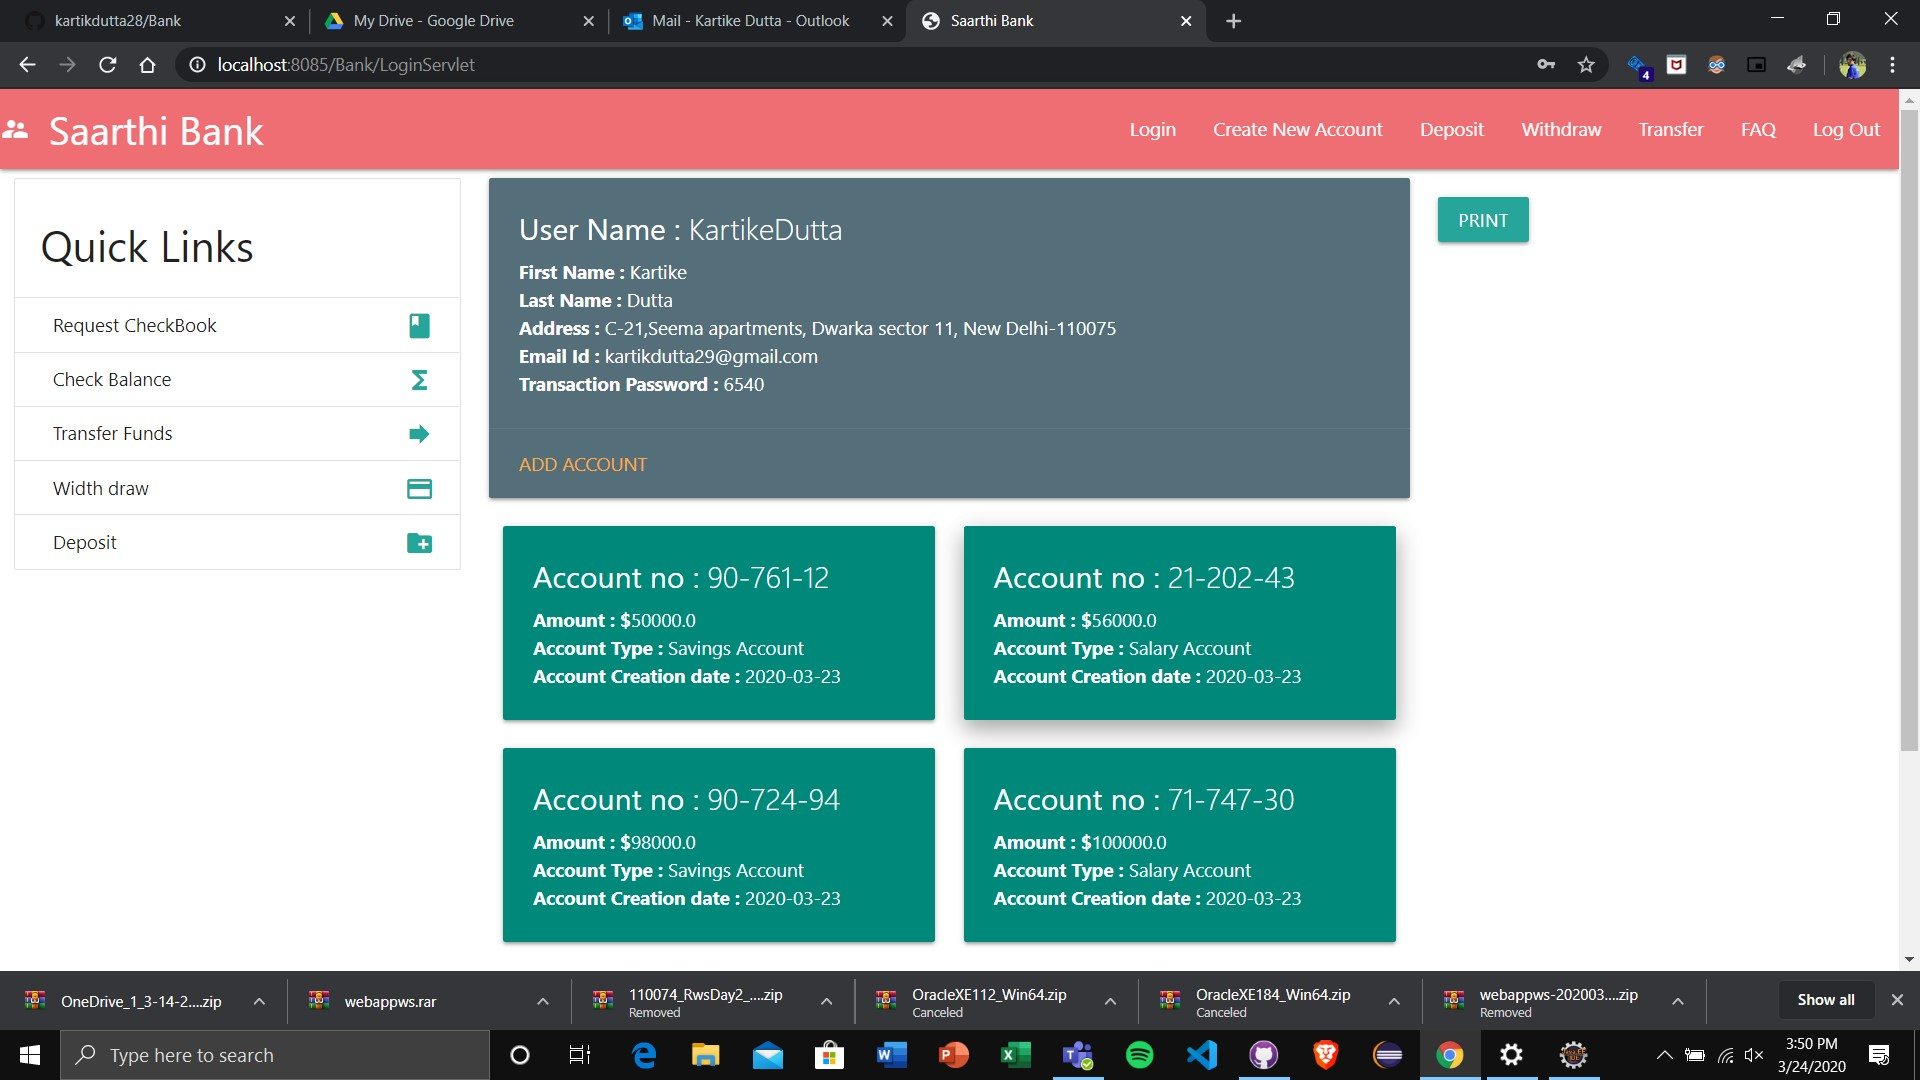
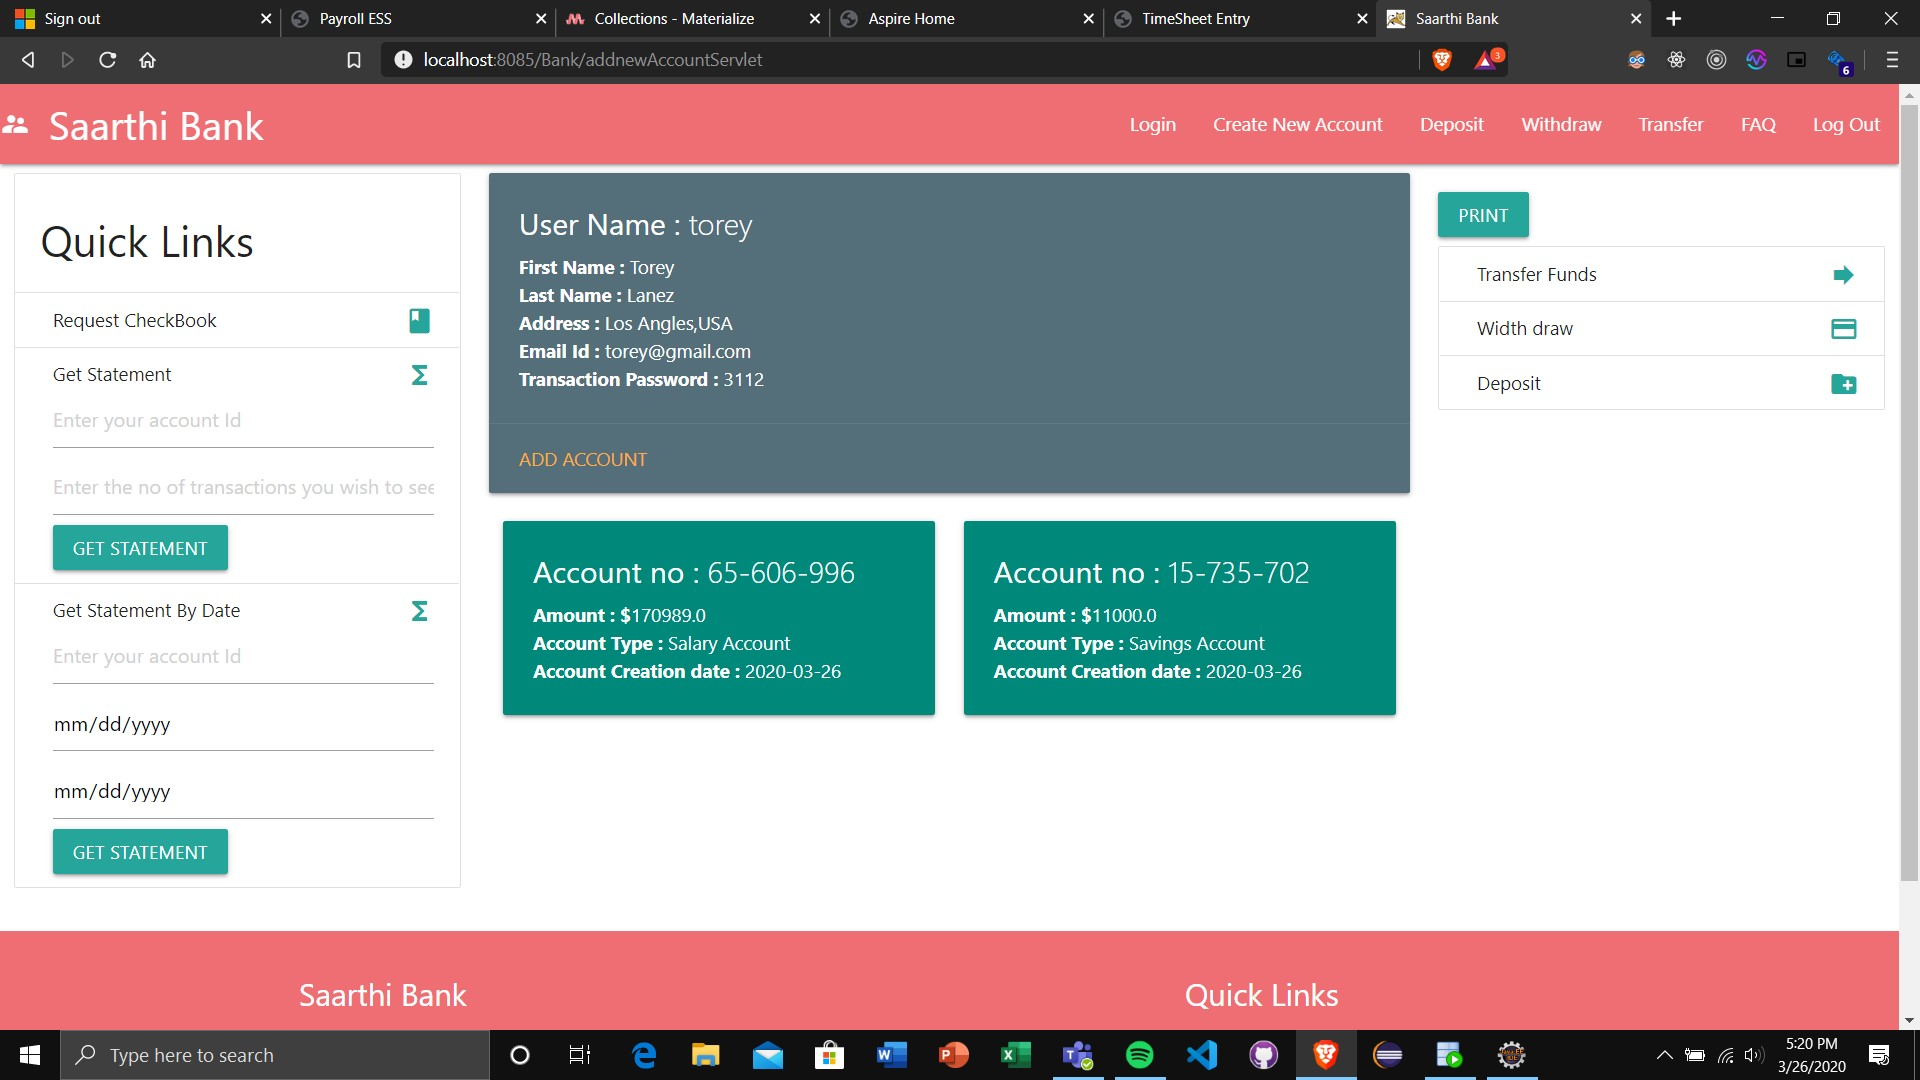
images
images

diff --git a/src/com/persistence/TransactionDao.java b/src/com/persistence/TransactionDao.java
@@ -3,7 +3,9 @@ package com.persistence;
 import java.sql.Connection;
 import java.sql.PreparedStatement;
 import java.sql.ResultSet;
+import java.text.SimpleDateFormat;
 import java.util.ArrayList;
+import java.util.Date;
 import java.util.List;
 
 import com.model.Transaction;
@@ -89,6 +91,38 @@ public class TransactionDao {
 			ps=connection.prepareStatement("select * from transaction_table where account_id=? order by tdate asc");
 			ps.setInt(1, account_id);
 			ps.setMaxRows(rows);
+			rs=ps.executeQuery();
+			while(rs.next()){
+				list.add(new Transaction(rs.getInt(1), rs.getInt(2),rs.getInt(3), rs.getDouble(4), 
+						rs.getDouble(5), rs.getString(6),rs.getString(7),rs.getDate(8)));
+			}
+		}catch (Exception e) {
+			e.printStackTrace();
+		}finally{
+			try{
+				connection.close();
+				ps.close();
+			}catch(Exception e){
+				e.printStackTrace();
+			}
+		}
+		return list;
+	}
+	
+	public List<Transaction> getStatementByDate(int account_id,String sdate,String edate){
+		List<Transaction> list=new ArrayList<Transaction>();
+		try{
+			connection=cp.openConnection();
+			ps=connection.prepareStatement("select * from transaction_table where account_id=? and (tdate between ? and ?)");
+			ps.setInt(1, account_id);
+			Date fdate = new SimpleDateFormat("yyyy-MM-dd").parse(sdate);
+			Date s2date = new SimpleDateFormat("yyyy-MM-dd").parse(edate);
+			java.sql.Date sqlsDate = new java.sql.Date(fdate.getTime());
+			java.sql.Date sqleDate = new java.sql.Date(s2date.getTime());
+			System.out.println(sqlsDate);
+			System.out.println(sqleDate);
+			ps.setDate(2, sqlsDate);
+			ps.setDate(3, sqleDate);
 			rs=ps.executeQuery();
 			while(rs.next()){
 				list.add(new Transaction(rs.getInt(1), rs.getInt(2),rs.getInt(3), rs.getDouble(4), 
